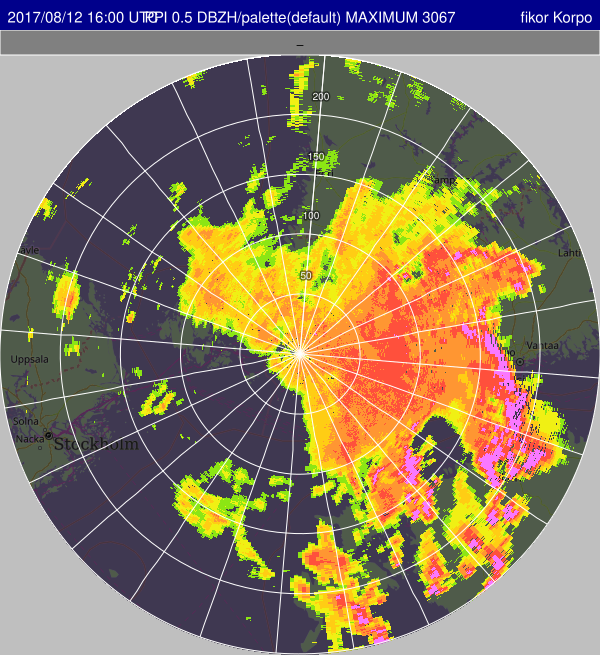
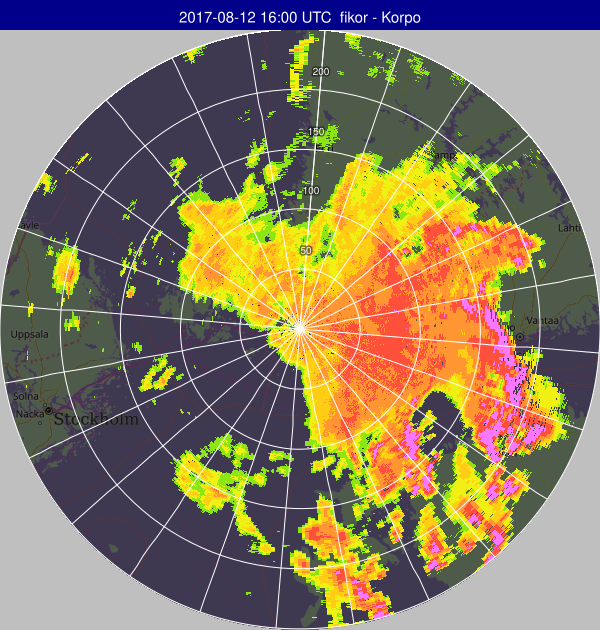
v20.4.3

diff --git a/docs/svgpage.html b/docs/svgpage.html
@@ -75,6 +75,13 @@ $(function() {
   <div class="headertitle"><div class="title">Writing SVG files</div></div>
 </div><!--header-->
 <div class="contents">
+<div class="toc"><h3>Table of Contents</h3>
+<ul><li class="level1"><a href="#fileio_svg">Automatical generation of SVG files</a><ul><li class="level2"><a href="#svg_example">Examples of SVG panels</a></li>
+<li class="level2"><a href="#svg_paths">Relative or absolute image file paths?</a></li>
+</ul>
+</li>
+</ul>
+</div>
 <div class="textblock"><h1><a class="anchor" id="fileio_svg"></a>
 Automatical generation of SVG files</h1>
 <p><b>Rack</b> supports presenting generated PNG images collectively using Scalable Vector Graphics (SVG) format.</p>
@@ -83,17 +90,16 @@ Automatical generation of SVG files</h1>
 <p>The internal SVG structure is lightweight, so maintaining it in the background is neither time nor memory consuming. In addition, some processing - like alignment of elements - takes places only if an SVG file is actually written out.</p>
 <h2><a class="anchor" id="svg_example"></a>
 Examples of SVG panels</h2>
-<p>tableofcontents Add radar grid and back ground map </p><div class="fragment"><div class="line"><a class="code hl_namespace" href="namespacerack.html">rack</a> --outputPrefix $PWD/out/  \</div>
+<p>svg_basic Basic examplesvg_basic_single Single-radar image – add grid and background map<div class="fragment"><div class="line"><a class="code hl_namespace" href="namespacerack.html">rack</a> --outputPrefix $PWD/out/  \</div>
 <div class="line">   --inputPrefix $PWD/ \</div>
-<div class="line">   --outputPrefix $PWD/out/ \</div>
-<div class="line">   --gGroupTitle ${NOD} – ${PLC} \</div>
+<div class="line">   --gTitle <span class="stringliteral">&#39;${what:date|%Y-%m-%d} ${what:time|%H:%M UTC}  ${NOD} - ${PLC}&#39;</span> \</div>
 <div class="line">   data-kiira/201708121600_radar.polar.fikor.h5 \</div>
 <div class="line">   --cProj 3067 --cSize 600 \</div>
 <div class="line">   -Q DBZH -c \</div>
 <div class="line">   --gLinkImage <span class="stringliteral">&#39;${inputPrefix}/maps/map-radar:${NOD}-${where:EPSG}-${where:xsize}x${where:ysize}.png&#39;</span> \</div>
 <div class="line">   --gAlign HORZ_FILL:VERT_FILL \</div>
 <div class="line">   --imageTransp 0.0:0.1,0,1 --palette <span class="keywordflow">default</span> \</div>
-<div class="line">   -o out-${what:date}T${what:time}-${NOD}.png \</div>
+<div class="line">   -o <span class="stringliteral">&#39;out-${what:date}T${what:time}-${NOD}.png&#39;</span> \</div>
 <div class="line">   --gRadarGrid 50000:1,15,MASK=<span class="keyword">true</span> \</div>
 <div class="line">   --gStyle .GRID=stroke-width:1px \</div>
 <div class="line">   -o grid_and_background_map.svg</div>
@@ -102,7 +108,25 @@ Examples of SVG panels</h2>
 <img src="grid_and_background_map.png" alt=""/>
 <div class="caption">
 SVG panel example: grid and background map.</div></div>
- Align text to each radar </p><div class="fragment"><div class="line"><a class="code hl_namespace" href="namespacerack.html">rack</a> --outputPrefix $PWD/out/  \</div>
+ svg_basic_single Single-radar image – add place marker.<div class="fragment"><div class="line"><a class="code hl_namespace" href="namespacerack.html">rack</a> --outputPrefix $PWD/out/  \</div>
+<div class="line">   --inputPrefix $PWD/ \</div>
+<div class="line">   --gTitle <span class="stringliteral">&#39;${what:date|%Y-%m-%d} ${what:time|%H:%M UTC}  ${NOD} - ${PLC}&#39;</span> \</div>
+<div class="line">   data-kiira/201708121600_radar.polar.fikor.h5 \</div>
+<div class="line">   --cProj 3067 --cSize 600 \</div>
+<div class="line">   -Q DBZH -c \</div>
+<div class="line">   --gLinkImage <span class="stringliteral">&#39;${inputPrefix}/maps/map-radar:${NOD}-${where:EPSG}-${where:xsize}x${where:ysize}.png&#39;</span> \</div>
+<div class="line">   --gAlign HORZ_FILL:VERT_FILL \</div>
+<div class="line">   --imageTransp 0.0:0.1,0,1 --palette <span class="keywordflow">default</span> \</div>
+<div class="line">   -o <span class="stringliteral">&#39;out-${what:date}T${what:time}-${NOD}.png&#39;</span> \</div>
+<div class="line">   --gRadarDot 5000 --gDot 21.37:59.781667,12000:15000 \</div>
+<div class="line">   --gStyle .SPOT=<span class="stringliteral">&#39;stroke:none;fill:white&#39;</span> \</div>
+<div class="line">   --gStyle .RADARDOT=<span class="stringliteral">&#39;stroke-width:3px;fill:red&#39;</span> \</div>
+<div class="line">   -o place_marker.svg</div>
+</div><!-- fragment --><div class="image">
+<img src="place_marker.png" alt=""/>
+<div class="caption">
+SVG panel example: place marker.</div></div>
+ svg_basic Basic exampleAlign text to each radar </p><div class="fragment"><div class="line"><a class="code hl_namespace" href="namespacerack.html">rack</a> --outputPrefix $PWD/out/  \</div>
 <div class="line">   --inputPrefix $PWD/ \</div>
 <div class="line">   --cProj 4326 --cBBox 17.13,57.93,29.41,64.08 --cSize 800,800 --cInit \</div>
 <div class="line">   --script <span class="stringliteral">&#39;-Q DBZH --cAdd  --gRadarLabel &quot;${what:date|%A, %d %B %Y}\n${NOD}|${PLC}\n${what:time}&quot; &#39;</span> \</div>
@@ -130,7 +154,7 @@ SVG panel example: composite-Labels.</div></div>
 <img src="composite-labels2.png" alt=""/>
 <div class="caption">
 SVG panel example: composite-Labels2.</div></div>
- <b>Illustrations</b> applying graphic commands for each input – inside a script. <code>--gRadarDot</code> 30000,MASK=true </p><div class="fragment"><div class="line"><a class="code hl_namespace" href="namespacerack.html">rack</a> --outputPrefix $PWD/out/  \</div>
+ Illustrations applying graphic commands for each input. This is done using a <b>script</b>. Example of using: <code>--gRadarDot</code> '<code></code>' 30000,MASK=true </p><div class="fragment"><div class="line"><a class="code hl_namespace" href="namespacerack.html">rack</a> --outputPrefix $PWD/out/  \</div>
 <div class="line">   --inputPrefix $PWD/ \</div>
 <div class="line">   --cProj 4326 --cBBox 17.13,57.93,29.41,64.08 --cSize 800,800 --cInit \</div>
 <div class="line">   --script <span class="stringliteral">&#39;-Q DBZH --cAdd  --gRadarDot 30000,MASK=true&#39;</span> \</div>
@@ -145,7 +169,7 @@ SVG panel example: composite-Labels2.</div></div>
 <img src="composite-radardot-30000.png" alt=""/>
 <div class="caption">
 SVG panel example: composite-RadarDot-30000.</div></div>
- <code>--gRadarDot</code> 20000:30000,MASK=true </p><div class="fragment"><div class="line"><a class="code hl_namespace" href="namespacerack.html">rack</a> --outputPrefix $PWD/out/  \</div>
+ Example of using: <code>--gRadarDot</code> '<code></code>' 20000:30000,MASK=true </p><div class="fragment"><div class="line"><a class="code hl_namespace" href="namespacerack.html">rack</a> --outputPrefix $PWD/out/  \</div>
 <div class="line">   --inputPrefix $PWD/ \</div>
 <div class="line">   --cProj 4326 --cBBox 17.13,57.93,29.41,64.08 --cSize 800,800 --cInit \</div>
 <div class="line">   --script <span class="stringliteral">&#39;-Q DBZH --cAdd  --gRadarDot 20000:30000,MASK=true&#39;</span> \</div>
@@ -160,7 +184,7 @@ SVG panel example: composite-RadarDot-30000.</div></div>
 <img src="composite-radardot-20000_30000.png" alt=""/>
 <div class="caption">
 SVG panel example: composite-RadarDot-20000:30000.</div></div>
- <code>--gRadarSector</code> 25000:125000,MASK=true </p><div class="fragment"><div class="line"><a class="code hl_namespace" href="namespacerack.html">rack</a> --outputPrefix $PWD/out/  \</div>
+ Example of using: <code>--gRadarSector</code> '<code></code>' 25000:125000,MASK=true </p><div class="fragment"><div class="line"><a class="code hl_namespace" href="namespacerack.html">rack</a> --outputPrefix $PWD/out/  \</div>
 <div class="line">   --inputPrefix $PWD/ \</div>
 <div class="line">   --cProj 4326 --cBBox 17.13,57.93,29.41,64.08 --cSize 800,800 --cInit \</div>
 <div class="line">   --script <span class="stringliteral">&#39;-Q DBZH --cAdd  --gRadarSector 25000:125000,MASK=true&#39;</span> \</div>
@@ -175,7 +199,7 @@ SVG panel example: composite-RadarDot-20000:30000.</div></div>
 <img src="composite-radarsector-25000_125000.png" alt=""/>
 <div class="caption">
 SVG panel example: composite-RadarSector-25000:125000.</div></div>
- <code>--gRadarSector</code> 1.0,MASK=true </p><div class="fragment"><div class="line"><a class="code hl_namespace" href="namespacerack.html">rack</a> --outputPrefix $PWD/out/  \</div>
+ Example of using: <code>--gRadarSector</code> '<code></code>' 1.0,MASK=true </p><div class="fragment"><div class="line"><a class="code hl_namespace" href="namespacerack.html">rack</a> --outputPrefix $PWD/out/  \</div>
 <div class="line">   --inputPrefix $PWD/ \</div>
 <div class="line">   --cProj 4326 --cBBox 17.13,57.93,29.41,64.08 --cSize 800,800 --cInit \</div>
 <div class="line">   --script <span class="stringliteral">&#39;-Q DBZH --cAdd  --gRadarSector 1.0,MASK=true&#39;</span> \</div>
@@ -190,7 +214,7 @@ SVG panel example: composite-RadarSector-25000:125000.</div></div>
 <img src="composite-radarsector-1.0.png" alt=""/>
 <div class="caption">
 SVG panel example: composite-RadarSector-1.0.</div></div>
- <b>Illustrations</b> applying graphic commands for the last (outside a script). <code>--gRadarGrid</code> 50000:1,15:180:240,MASK=true </p><div class="fragment"><div class="line"><a class="code hl_namespace" href="namespacerack.html">rack</a> --outputPrefix $PWD/out/  \</div>
+ Illustrations applying graphic commands for the <b>last</b> input file - defined <b>outside</b> the script. Example of using: <code>--gRadarGrid</code> <code>50000</code>:1,15:180:240,MASK=true </p><div class="fragment"><div class="line"><a class="code hl_namespace" href="namespacerack.html">rack</a> --outputPrefix $PWD/out/  \</div>
 <div class="line">   --inputPrefix $PWD/ \</div>
 <div class="line">   --cProj 4326 --cBBox 17.13,57.93,29.41,64.08 --cSize 800,800 --cInit \</div>
 <div class="line">   --script <span class="stringliteral">&#39;-Q DBZH --cAdd&#39;</span> \</div>
@@ -205,7 +229,7 @@ SVG panel example: composite-RadarSector-1.0.</div></div>
 <img src="composite-radargrid-50000_115_180_240.png" alt=""/>
 <div class="caption">
 SVG panel example: composite-RadarGrid-50000:1,15:180:240.</div></div>
- <code>--gRadarSector</code> radius=0:150000,azimuth=170:240,MASK=true </p><div class="fragment"><div class="line"><a class="code hl_namespace" href="namespacerack.html">rack</a> --outputPrefix $PWD/out/  \</div>
+ Example of using: <code>--gRadarSector</code> <code>radius=0</code>:150000,azimuth=170:240,MASK=true </p><div class="fragment"><div class="line"><a class="code hl_namespace" href="namespacerack.html">rack</a> --outputPrefix $PWD/out/  \</div>
 <div class="line">   --inputPrefix $PWD/ \</div>
 <div class="line">   --cProj 4326 --cBBox 17.13,57.93,29.41,64.08 --cSize 800,800 --cInit \</div>
 <div class="line">   --script <span class="stringliteral">&#39;-Q DBZH --cAdd&#39;</span> \</div>
@@ -220,7 +244,7 @@ SVG panel example: composite-RadarGrid-50000:1,15:180:240.</div></div>
 <img src="composite-radarsector-radius=0_150000azimuth=170_240.png" alt=""/>
 <div class="caption">
 SVG panel example: composite-RadarSector-radius=0:150000,azimuth=170:240.</div></div>
- <code>--gRadarSector</code> radius=0:250000,azimuth=135:140,MASK=true </p><div class="fragment"><div class="line"><a class="code hl_namespace" href="namespacerack.html">rack</a> --outputPrefix $PWD/out/  \</div>
+ Example of using: <code>--gRadarSector</code> <code>radius=0</code>:250000,azimuth=135:140,MASK=true </p><div class="fragment"><div class="line"><a class="code hl_namespace" href="namespacerack.html">rack</a> --outputPrefix $PWD/out/  \</div>
 <div class="line">   --inputPrefix $PWD/ \</div>
 <div class="line">   --cProj 4326 --cBBox 17.13,57.93,29.41,64.08 --cSize 800,800 --cInit \</div>
 <div class="line">   --script <span class="stringliteral">&#39;-Q DBZH --cAdd&#39;</span> \</div>
@@ -235,7 +259,7 @@ SVG panel example: composite-RadarSector-radius=0:150000,azimuth=170:240.</div><
 <img src="composite-radarsector-radius=0_250000azimuth=135_140.png" alt=""/>
 <div class="caption">
 SVG panel example: composite-RadarSector-radius=0:250000,azimuth=135:140.</div></div>
- <code>--gRadarSector</code> radius=100000:175000,azimuth=300:370,MASK=true </p><div class="fragment"><div class="line"><a class="code hl_namespace" href="namespacerack.html">rack</a> --outputPrefix $PWD/out/  \</div>
+ Example of using: <code>--gRadarSector</code> <code>radius=100000</code>:175000,azimuth=300:370,MASK=true </p><div class="fragment"><div class="line"><a class="code hl_namespace" href="namespacerack.html">rack</a> --outputPrefix $PWD/out/  \</div>
 <div class="line">   --inputPrefix $PWD/ \</div>
 <div class="line">   --cProj 4326 --cBBox 17.13,57.93,29.41,64.08 --cSize 800,800 --cInit \</div>
 <div class="line">   --script <span class="stringliteral">&#39;-Q DBZH --cAdd&#39;</span> \</div>
@@ -365,7 +389,7 @@ SVG panel example: Multiple styles.</div></div>
 <img src="metadata_panel.png" alt=""/>
 <div class="caption">
 SVG panel example: Metadata panel.</div></div>
- <b>Background</b> maps. External images can be linked with <code>--gLinkImage</code>. For example, maps can be included, aligning the following radar image on top of it with <code>--gAlign</code> <code>HORZ_FILL</code>,VERT_FILL . Note that &ndash;gLinkImage discards &ndash;inputPrefix , but that value can be accessed and added explicitly with ${inputPrefix} </p><div class="fragment"><div class="line"><a class="code hl_namespace" href="namespacerack.html">rack</a> --outputPrefix $PWD/out/  \</div>
+ svg_background_maps Background maps.Background maps. External images can be linked with <code>--gLinkImage</code>. For example, maps can be included, aligning the following radar image on top of it with <code>--gAlign</code> <code>HORZ_FILL</code>,VERT_FILL . Note that &ndash;gLinkImage discards &ndash;inputPrefix , but that value can be accessed and added explicitly with <b>${inputPrefix}</b> </p><div class="fragment"><div class="line"><a class="code hl_namespace" href="namespacerack.html">rack</a> --outputPrefix $PWD/out/  \</div>
 <div class="line">   --inputPrefix $PWD/ \</div>
 <div class="line">   --gGroupTitle <span class="stringliteral">&#39;${NOD} – ${PLC}&#39;</span> \</div>
 <div class="line">   --script <span class="stringliteral">&#39;--cReset --cProj 3067 --cSize 300 -Q DBZH -c --gLinkImage ${inputPrefix}/maps/map-radar:${NOD}-${where:EPSG}-${where:xsize}x${where:ysize}.png  --gAlign &#39;</span>HORZ_FILL:VERT_FILL<span class="stringliteral">&#39; --imageTransp 0.0:0.1,0,1 --palette default   -o out-${what:date}T${what:time}-${NOD}.png&#39;</span> data-kiira/201708121600_radar.polar.fi{kor,ika,van}.h5 -o adding_background_maps.svg</div>

diff --git a/docs/rack_8h_source.html b/docs/rack_8h_source.html
@@ -119,22 +119,22 @@ $(document).ready(function() { init_codefold(0); });
 <div class="line"><a id="l00033" name="l00033"></a><span class="lineno">   33</span><span class="preprocessor">#define __RACK_API__</span></div>
 <div class="line"><a id="l00034" name="l00034"></a><span class="lineno">   34</span> </div>
 <div class="line"><a id="l00035" name="l00035"></a><span class="lineno">   35</span><span class="preprocessor">#include &lt;drain/Version.h&gt;</span></div>
-<div class="line"><a id="l00036" name="l00036"></a><span class="lineno">   36</span><span class="preprocessor">#define RACK_VERSION drain::Version&lt;&gt;(20,4,2)</span></div>
+<div class="line"><a id="l00036" name="l00036"></a><span class="lineno">   36</span><span class="preprocessor">#define RACK_VERSION drain::Version&lt;&gt;(20,4,3)</span></div>
 <div class="line"><a id="l00037" name="l00037"></a><span class="lineno">   37</span><span class="preprocessor">#define RACK_STAMP &quot;Rack_fmi.fi&quot;</span></div>
 <div class="line"><a id="l00038" name="l00038"></a><span class="lineno">   38</span> </div>
 <div class="line"><a id="l00039" name="l00039"></a><span class="lineno">   39</span> </div>
 <div class="line"><a id="l00040" name="l00040"></a><span class="lineno">   40</span> </div>
-<div class="line"><a id="l00799" name="l00799"></a><span class="lineno">  799</span><span class="keyword">namespace </span><a class="code hl_namespace" href="namespacerack.html">rack</a> {</div>
-<div class="line"><a id="l00800" name="l00800"></a><span class="lineno">  800</span> </div>
-<div class="line"><a id="l00804" name="l00804"></a><span class="lineno">  804</span><span class="keywordtype">int</span> <a class="code hl_function" href="namespacerack.html#a11b6f031ad0ea0856803ce1677e42c80">process</a>(<span class="keywordtype">int</span> argc, <span class="keyword">const</span> <span class="keywordtype">char</span> **argv);</div>
-<div class="line"><a id="l00805" name="l00805"></a><span class="lineno">  805</span> </div>
-<div class="line"><a id="l00806" name="l00806"></a><span class="lineno">  806</span>} <span class="comment">// rack::</span></div>
+<div class="line"><a id="l00801" name="l00801"></a><span class="lineno">  801</span><span class="keyword">namespace </span><a class="code hl_namespace" href="namespacerack.html">rack</a> {</div>
+<div class="line"><a id="l00802" name="l00802"></a><span class="lineno">  802</span> </div>
+<div class="line"><a id="l00806" name="l00806"></a><span class="lineno">  806</span><span class="keywordtype">int</span> <a class="code hl_function" href="namespacerack.html#a11b6f031ad0ea0856803ce1677e42c80">process</a>(<span class="keywordtype">int</span> argc, <span class="keyword">const</span> <span class="keywordtype">char</span> **argv);</div>
 <div class="line"><a id="l00807" name="l00807"></a><span class="lineno">  807</span> </div>
-<div class="line"><a id="l00808" name="l00808"></a><span class="lineno">  808</span> </div>
+<div class="line"><a id="l00808" name="l00808"></a><span class="lineno">  808</span>} <span class="comment">// rack::</span></div>
 <div class="line"><a id="l00809" name="l00809"></a><span class="lineno">  809</span> </div>
-<div class="line"><a id="l00810" name="l00810"></a><span class="lineno">  810</span><span class="preprocessor">#endif</span></div>
+<div class="line"><a id="l00810" name="l00810"></a><span class="lineno">  810</span> </div>
 <div class="line"><a id="l00811" name="l00811"></a><span class="lineno">  811</span> </div>
-<div class="line"><a id="l00812" name="l00812"></a><span class="lineno">  812</span><span class="comment">// Rack</span></div>
+<div class="line"><a id="l00812" name="l00812"></a><span class="lineno">  812</span><span class="preprocessor">#endif</span></div>
+<div class="line"><a id="l00813" name="l00813"></a><span class="lineno">  813</span> </div>
+<div class="line"><a id="l00814" name="l00814"></a><span class="lineno">  814</span><span class="comment">// Rack</span></div>
 <div class="ttc" id="anamespacerack_html"><div class="ttname"><a href="namespacerack.html">rack</a></div><div class="ttdef"><b>Definition</b> DataSelector.cpp:44</div></div>
 <div class="ttc" id="anamespacerack_html_a11b6f031ad0ea0856803ce1677e42c80"><div class="ttname"><a href="namespacerack.html#a11b6f031ad0ea0856803ce1677e42c80">rack::process</a></div><div class="ttdeci">int process(int argc, const char **argv)</div><div class="ttdef"><b>Definition</b> rack.cpp:65</div></div>
 </div><!-- fragment --></div><!-- contents -->

diff --git a/docs/graphics-radar_8h_source.html b/docs/graphics-radar_8h_source.html
@@ -500,13 +500,13 @@ $(document).ready(function() { init_codefold(0); });
 <div class="ttc" id="aclassrack_1_1RadarSVG_html"><div class="ttname"><a href="classrack_1_1RadarSVG.html">rack::RadarSVG</a></div><div class="ttdoc">Vector graphics for both composites and single radar data (polar coordinates).</div><div class="ttdef"><b>Definition</b> graphics-radar.h:134</div></div>
 <div class="ttc" id="aclassrack_1_1RadarSVG_html_a0cdb3f70978138ebbfcb5666a2a3bbfb"><div class="ttname"><a href="classrack_1_1RadarSVG.html#a0cdb3f70978138ebbfcb5666a2a3bbfb">rack::RadarSVG::setRadialResolution</a></div><div class="ttdeci">void setRadialResolution(int n)</div><div class="ttdoc">Number of &quot;sectors&quot; in a sphere.</div><div class="ttdef"><b>Definition</b> graphics-radar.h:231</div></div>
 <div class="ttc" id="aclassrack_1_1RadarSVG_html_a1240e07a8bcc6cd9f35a8de24ad45beb"><div class="ttname"><a href="classrack_1_1RadarSVG.html#a1240e07a8bcc6cd9f35a8de24ad45beb">rack::RadarSVG::geoFrame</a></div><div class="ttdeci">drain::image::GeoFrame geoFrame</div><div class="ttdoc">If r is inside +/-100% = [-1.0,1.0], return that portion of maximum range, else the argument as such.</div><div class="ttdef"><b>Definition</b> graphics-radar.h:210</div></div>
-<div class="ttc" id="aclassrack_1_1RadarSVG_html_a16a67ecc548e7c9c6b3dafae4c625939"><div class="ttname"><a href="classrack_1_1RadarSVG.html#a16a67ecc548e7c9c6b3dafae4c625939">rack::RadarSVG::getOverlayGroup</a></div><div class="ttdeci">static drain::image::TreeSVG &amp; getOverlayGroup(drain::image::TreeSVG &amp;svgDoc)</div><div class="ttdoc">Sets some CSS properties applicable in radar graphics (grids, sectors).</div><div class="ttdef"><b>Definition</b> graphics-radar.cpp:196</div></div>
-<div class="ttc" id="aclassrack_1_1RadarSVG_html_a2c62fb0c908c8b3a196897e45a0e92df"><div class="ttname"><a href="classrack_1_1RadarSVG.html#a2c62fb0c908c8b3a196897e45a0e92df">rack::RadarSVG::updateCartesianConf</a></div><div class="ttdeci">void updateCartesianConf(const drain::VariableMap &amp;where)</div><div class="ttdoc">Read meta data related to Cartesian data, that is, geographic configuration of a radar composite.</div><div class="ttdef"><b>Definition</b> graphics-radar.cpp:245</div></div>
+<div class="ttc" id="aclassrack_1_1RadarSVG_html_a16a67ecc548e7c9c6b3dafae4c625939"><div class="ttname"><a href="classrack_1_1RadarSVG.html#a16a67ecc548e7c9c6b3dafae4c625939">rack::RadarSVG::getOverlayGroup</a></div><div class="ttdeci">static drain::image::TreeSVG &amp; getOverlayGroup(drain::image::TreeSVG &amp;svgDoc)</div><div class="ttdoc">Sets some CSS properties applicable in radar graphics (grids, sectors).</div><div class="ttdef"><b>Definition</b> graphics-radar.cpp:210</div></div>
+<div class="ttc" id="aclassrack_1_1RadarSVG_html_a2c62fb0c908c8b3a196897e45a0e92df"><div class="ttname"><a href="classrack_1_1RadarSVG.html#a2c62fb0c908c8b3a196897e45a0e92df">rack::RadarSVG::updateCartesianConf</a></div><div class="ttdeci">void updateCartesianConf(const drain::VariableMap &amp;where)</div><div class="ttdoc">Read meta data related to Cartesian data, that is, geographic configuration of a radar composite.</div><div class="ttdef"><b>Definition</b> graphics-radar.cpp:259</div></div>
 <div class="ttc" id="aclassrack_1_1RadarSVG_html_a3b0b5114bfdb378cd0e397d02a081420"><div class="ttname"><a href="classrack_1_1RadarSVG.html#a3b0b5114bfdb378cd0e397d02a081420">rack::RadarSVG::moveTo</a></div><div class="ttdeci">void moveTo(drain::svgPATH &amp;elem, drain::Point2D&lt; int &gt; &amp;imgPoint, double radiusM, double azimuthR) const</div><div class="ttdoc">Move to image point at (radius, azimuth)</div><div class="ttdef"><b>Definition</b> graphics-radar.h:302</div></div>
 <div class="ttc" id="aclassrack_1_1RadarSVG_html_a57ddcd5cebdbde9eb99ed25b9e15b6a8"><div class="ttname"><a href="classrack_1_1RadarSVG.html#a57ddcd5cebdbde9eb99ed25b9e15b6a8">rack::RadarSVG::drawCircle</a></div><div class="ttdeci">void drawCircle(drain::svgPATH &amp;elem, const drain::Range&lt; double &gt; &amp;radius) const</div><div class="ttdoc">Convenience: draw circle (disk or annulus)</div><div class="ttdef"><b>Definition</b> graphics-radar.h:360</div></div>
-<div class="ttc" id="aclassrack_1_1RadarSVG_html_a5ec57d99b6595b08ce38560bcc6c9db2"><div class="ttname"><a href="classrack_1_1RadarSVG.html#a5ec57d99b6595b08ce38560bcc6c9db2">rack::RadarSVG::cubicBezierTo</a></div><div class="ttdeci">void cubicBezierTo(drain::svgPATH &amp;elem, double radiusM, double azimuthStartR, double azimuthEndR) const</div><div class="ttdoc">Single command to draw arc.</div><div class="ttdef"><b>Definition</b> graphics-radar.cpp:313</div></div>
-<div class="ttc" id="aclassrack_1_1RadarSVG_html_a7772fdb463a91f698dbcc94ae6002272"><div class="ttname"><a href="classrack_1_1RadarSVG.html#a7772fdb463a91f698dbcc94ae6002272">rack::RadarSVG::drawSector</a></div><div class="ttdeci">void drawSector(drain::svgPATH &amp;elem, const drain::Range&lt; double &gt; &amp;radius, const drain::Range&lt; double &gt; &amp;azimuthR={0.0, 0.0}) const</div><div class="ttdoc">Convenience: draw sector, starting from radius.min, ending at radius.max, in azimuth range azimuthR....</div><div class="ttdef"><b>Definition</b> graphics-radar.cpp:380</div></div>
-<div class="ttc" id="aclassrack_1_1RadarSVG_html_aa41a281ca60c21e3e446a5c65c6823d8"><div class="ttname"><a href="classrack_1_1RadarSVG.html#aa41a281ca60c21e3e446a5c65c6823d8">rack::RadarSVG::updateRadarConf</a></div><div class="ttdeci">void updateRadarConf(const drain::VariableMap &amp;where)</div><div class="ttdoc">Read meta data related to polar coordinates, that is, geographic configuration of a single radar.</div><div class="ttdef"><b>Definition</b> graphics-radar.cpp:225</div></div>
+<div class="ttc" id="aclassrack_1_1RadarSVG_html_a5ec57d99b6595b08ce38560bcc6c9db2"><div class="ttname"><a href="classrack_1_1RadarSVG.html#a5ec57d99b6595b08ce38560bcc6c9db2">rack::RadarSVG::cubicBezierTo</a></div><div class="ttdeci">void cubicBezierTo(drain::svgPATH &amp;elem, double radiusM, double azimuthStartR, double azimuthEndR) const</div><div class="ttdoc">Single command to draw arc.</div><div class="ttdef"><b>Definition</b> graphics-radar.cpp:327</div></div>
+<div class="ttc" id="aclassrack_1_1RadarSVG_html_a7772fdb463a91f698dbcc94ae6002272"><div class="ttname"><a href="classrack_1_1RadarSVG.html#a7772fdb463a91f698dbcc94ae6002272">rack::RadarSVG::drawSector</a></div><div class="ttdeci">void drawSector(drain::svgPATH &amp;elem, const drain::Range&lt; double &gt; &amp;radius, const drain::Range&lt; double &gt; &amp;azimuthR={0.0, 0.0}) const</div><div class="ttdoc">Convenience: draw sector, starting from radius.min, ending at radius.max, in azimuth range azimuthR....</div><div class="ttdef"><b>Definition</b> graphics-radar.cpp:394</div></div>
+<div class="ttc" id="aclassrack_1_1RadarSVG_html_aa41a281ca60c21e3e446a5c65c6823d8"><div class="ttname"><a href="classrack_1_1RadarSVG.html#aa41a281ca60c21e3e446a5c65c6823d8">rack::RadarSVG::updateRadarConf</a></div><div class="ttdeci">void updateRadarConf(const drain::VariableMap &amp;where)</div><div class="ttdoc">Read meta data related to polar coordinates, that is, geographic configuration of a single radar.</div><div class="ttdef"><b>Definition</b> graphics-radar.cpp:239</div></div>
 <div class="ttc" id="anamespacedrain_html"><div class="ttname"><a href="namespacedrain.html">drain</a></div><div class="ttdef"><b>Definition</b> DataSelector.cpp:1277</div></div>
 <div class="ttc" id="anamespacerack_html"><div class="ttname"><a href="namespacerack.html">rack</a></div><div class="ttdef"><b>Definition</b> DataSelector.cpp:44</div></div>
 <div class="ttc" id="astructdrain_1_1Enum_html"><div class="ttname"><a href="structdrain_1_1Enum.html">drain::Enum</a></div><div class="ttdoc">A container for a static dictionary of enumeration values.</div><div class="ttdef"><b>Definition</b> Enum.h:51</div></div>

diff --git a/docs/namespacerack.html b/docs/namespacerack.html
@@ -1191,7 +1191,8 @@ const <a class="el" href="classdrain_1_1image_1_1CoordinatePolicy.html">drain::i
 <li>graphics style fix</li>
 <li>encoding: type bug reappeared... Release 20.4.2</li>
 <li>graphics style fix</li>
-<li>encoding: type bug probably nailed</li>
+<li>encoding: type bug probably nailed Release 20.4.3</li>
+<li><a class="el" href="classrack_1_1RadarDataPicker.html" title="Base class for utilities traversing radar data with Sampler.">RadarDataPicker</a>: removed obsolete member 'ref'</li>
 </ul>
 <p>Version 19</p><ul>
 <li>Simplified tree path element handling (including lookup table) Version 19.0</li>

diff --git a/docs/RadarDataPicker_8h_source.html b/docs/RadarDataPicker_8h_source.html
@@ -206,7 +206,7 @@ $(document).ready(function() { init_codefold(0); });
 <div class="line"><a id="l00126" name="l00126"></a><span class="lineno"><a class="line" href="classrack_1_1RadarDataPicker.html#a1b35461471ece8bcba97c97b0fb7a091">  126</a></span>    <span class="keywordtype">void</span> <a class="code hl_function" href="classrack_1_1RadarDataPicker.html#a1b35461471ece8bcba97c97b0fb7a091">toStream</a>(std::ostream &amp;ostr = std::cout)<span class="keyword"> const </span>{</div>
 <div class="line"><a id="l00127" name="l00127"></a><span class="lineno">  127</span>        <span class="comment">// &quot;RadarDataPicker &quot;</span></div>
 <div class="line"><a id="l00128" name="l00128"></a><span class="lineno">  128</span>        ostr &lt;&lt; drain::TypeName&lt;rack::RadarDataPicker&lt;OD&gt; &gt;::name;</div>
-<div class="line"><a id="l00129" name="l00129"></a><span class="lineno">  129</span>        ostr &lt;&lt; this-&gt;width &lt;&lt; <span class="stringliteral">&quot;x&quot;</span> &lt;&lt; this-&gt;height &lt;&lt; <span class="stringliteral">&quot;; &quot;</span> &lt;&lt; this-&gt;ref &lt;&lt; <span class="stringliteral">&quot;; &quot;</span> &lt;&lt;  <a class="code hl_variable" href="classrack_1_1RadarDataPicker.html#abab6dc903904ffb1e771ac3f5fd17df1">odim</a> &lt;&lt; <span class="charliteral">&#39;\n&#39;</span>;</div>
+<div class="line"><a id="l00129" name="l00129"></a><span class="lineno">  129</span>        ostr &lt;&lt; this-&gt;width &lt;&lt; <span class="stringliteral">&quot;x&quot;</span> &lt;&lt; this-&gt;height &lt;&lt; <span class="stringliteral">&quot;; &quot;</span> &lt;&lt; <span class="stringliteral">&quot;; &quot;</span> &lt;&lt;  <a class="code hl_variable" href="classrack_1_1RadarDataPicker.html#abab6dc903904ffb1e771ac3f5fd17df1">odim</a> &lt;&lt; <span class="charliteral">&#39;\n&#39;</span>;</div>
 <div class="line"><a id="l00130" name="l00130"></a><span class="lineno">  130</span>    }</div>
 </div>
 <div class="line"><a id="l00131" name="l00131"></a><span class="lineno">  131</span> </div>

diff --git a/src/main/graphics-radar.cpp b/src/main/graphics-radar.cpp
@@ -143,15 +143,15 @@ drain::image::TreeSVG & Graphic::getGraphicStyle(drain::image::TreeSVG & svgDoc)
 	 */
 
 
+	// Defaults
 	UtilsXML::ensureStyle(style, Select(GRID),{
 			{"stroke", "white"},
 			{"stroke-width", 3.0},
-			{"fill", "none"}, // debug
+			//{"fill", "none"}, // debug
 			//{"fill-opacity", 0.35},
 	});
 
-
-
+	// Force
 	style[Select(GRID)] -> set({
 		//style[drain::SelectXML<svg::tag_t>(drain::ClassXML("GRID")).str()] = {
 		//{"stroke", "white"},
@@ -161,7 +161,20 @@ drain::image::TreeSVG & Graphic::getGraphicStyle(drain::image::TreeSVG & svgDoc)
 	});
 
 
+	UtilsXML::ensureStyle(style, Select(svg::TEXT, GRID),{
+			{"text-anchor", "middle"},
+			{"font-size", "smaller"}, // ctx.svgPanelConf.fontSizes[1]
+			// {"font-size", 20.0},
+			{"paint-order", "stroke"},
+			{"stroke", "black"},
+			{"stroke-opacity", "0.5"},
+			{"stroke-width", "0.3em"},
+			{"stroke-linejoin", "round"},
+			{"fill", "white"}, // debug
+			{"fill-opacity", "1"},
+	});
 
+	/*
 	style[Select(svg::TEXT, GRID)] -> set({
 		{"text-anchor", "middle"},
 		{"font-size", "smaller"}, // ctx.svgPanelConf.fontSizes[1]
@@ -174,6 +187,7 @@ drain::image::TreeSVG & Graphic::getGraphicStyle(drain::image::TreeSVG & svgDoc)
 		{"fill", "white"}, // debug
 		{"fill-opacity", "1"},
 	});
+	*/
 
 	style[Select(HIGHLIGHT, PseudoClassCSS::hover)] -> set({
 		//{"display", "block"},